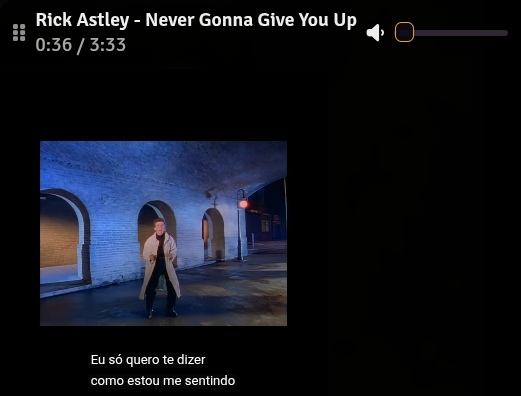
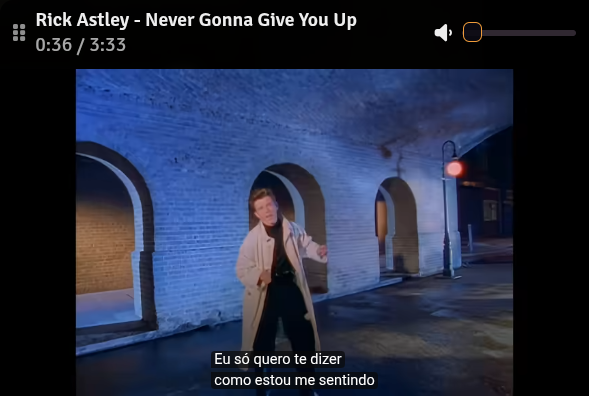
YouTube player fills the widget width (auto), 200px high; 0.2.2

diff --git a/styles/sound-board.css b/styles/sound-board.css
@@ -1,6 +1,6 @@
 #fsb-yt { display: flex; flex-direction: column; gap: 2px; } #fsb-yt:empty { display: none; }
-#fsb-yt iframe { display: block; width: 200px; height: 200px; max-width: 100%; }
-#fsb-widget { position: fixed; z-index: 60; min-width: 300px; max-width: 420px; background: #000c; color: #eee; border-radius: 8px; font-size: 12px; backdrop-filter: blur(4px); }
+#fsb-yt iframe { display: block; width: 100%; height: 200px; max-width: 100%; }
+#fsb-widget { position: fixed; z-index: 60; min-width: 360px; max-width: 420px; background: #000c; color: #eee; border-radius: 8px; font-size: 12px; backdrop-filter: blur(4px); }
 #fsb-widget .bar { display: flex; align-items: center; gap: 6px; padding: 4px 8px; }
 #fsb-widget .grip { cursor: grab; opacity: .6; }
 #fsb-widget .info { flex: 1; min-width: 0; }

diff --git a/scripts/yt.js b/scripts/yt.js
@@ -9,9 +9,9 @@ export const ytReady = () => (api ??= new Promise((res) => {
   document.head.append(s);
 }));
 
-// Visible players only (YouTube terms forbid hiding the player): they live inside the widget, 200x200 (the minimum YouTube allows).
+// Visible players only (YouTube terms forbid hiding the player): they live inside the widget, full widget width (auto) x 200 (the minimum height YouTube allows).
 export const box = () => document.getElementById('fsb-yt');
-export const SIZE = { width: 200, height: 200 };
+export const SIZE = { width: '100%', height: 200 };
 
 export const vidOf = (u = '') => /(?:[?&]v=|youtu\.be\/|embed\/|shorts\/)([\w-]{11})/.exec(u)?.[1];
 export const listOf = (u = '') => /[?&]list=([\w-]+)/.exec(u)?.[1];
